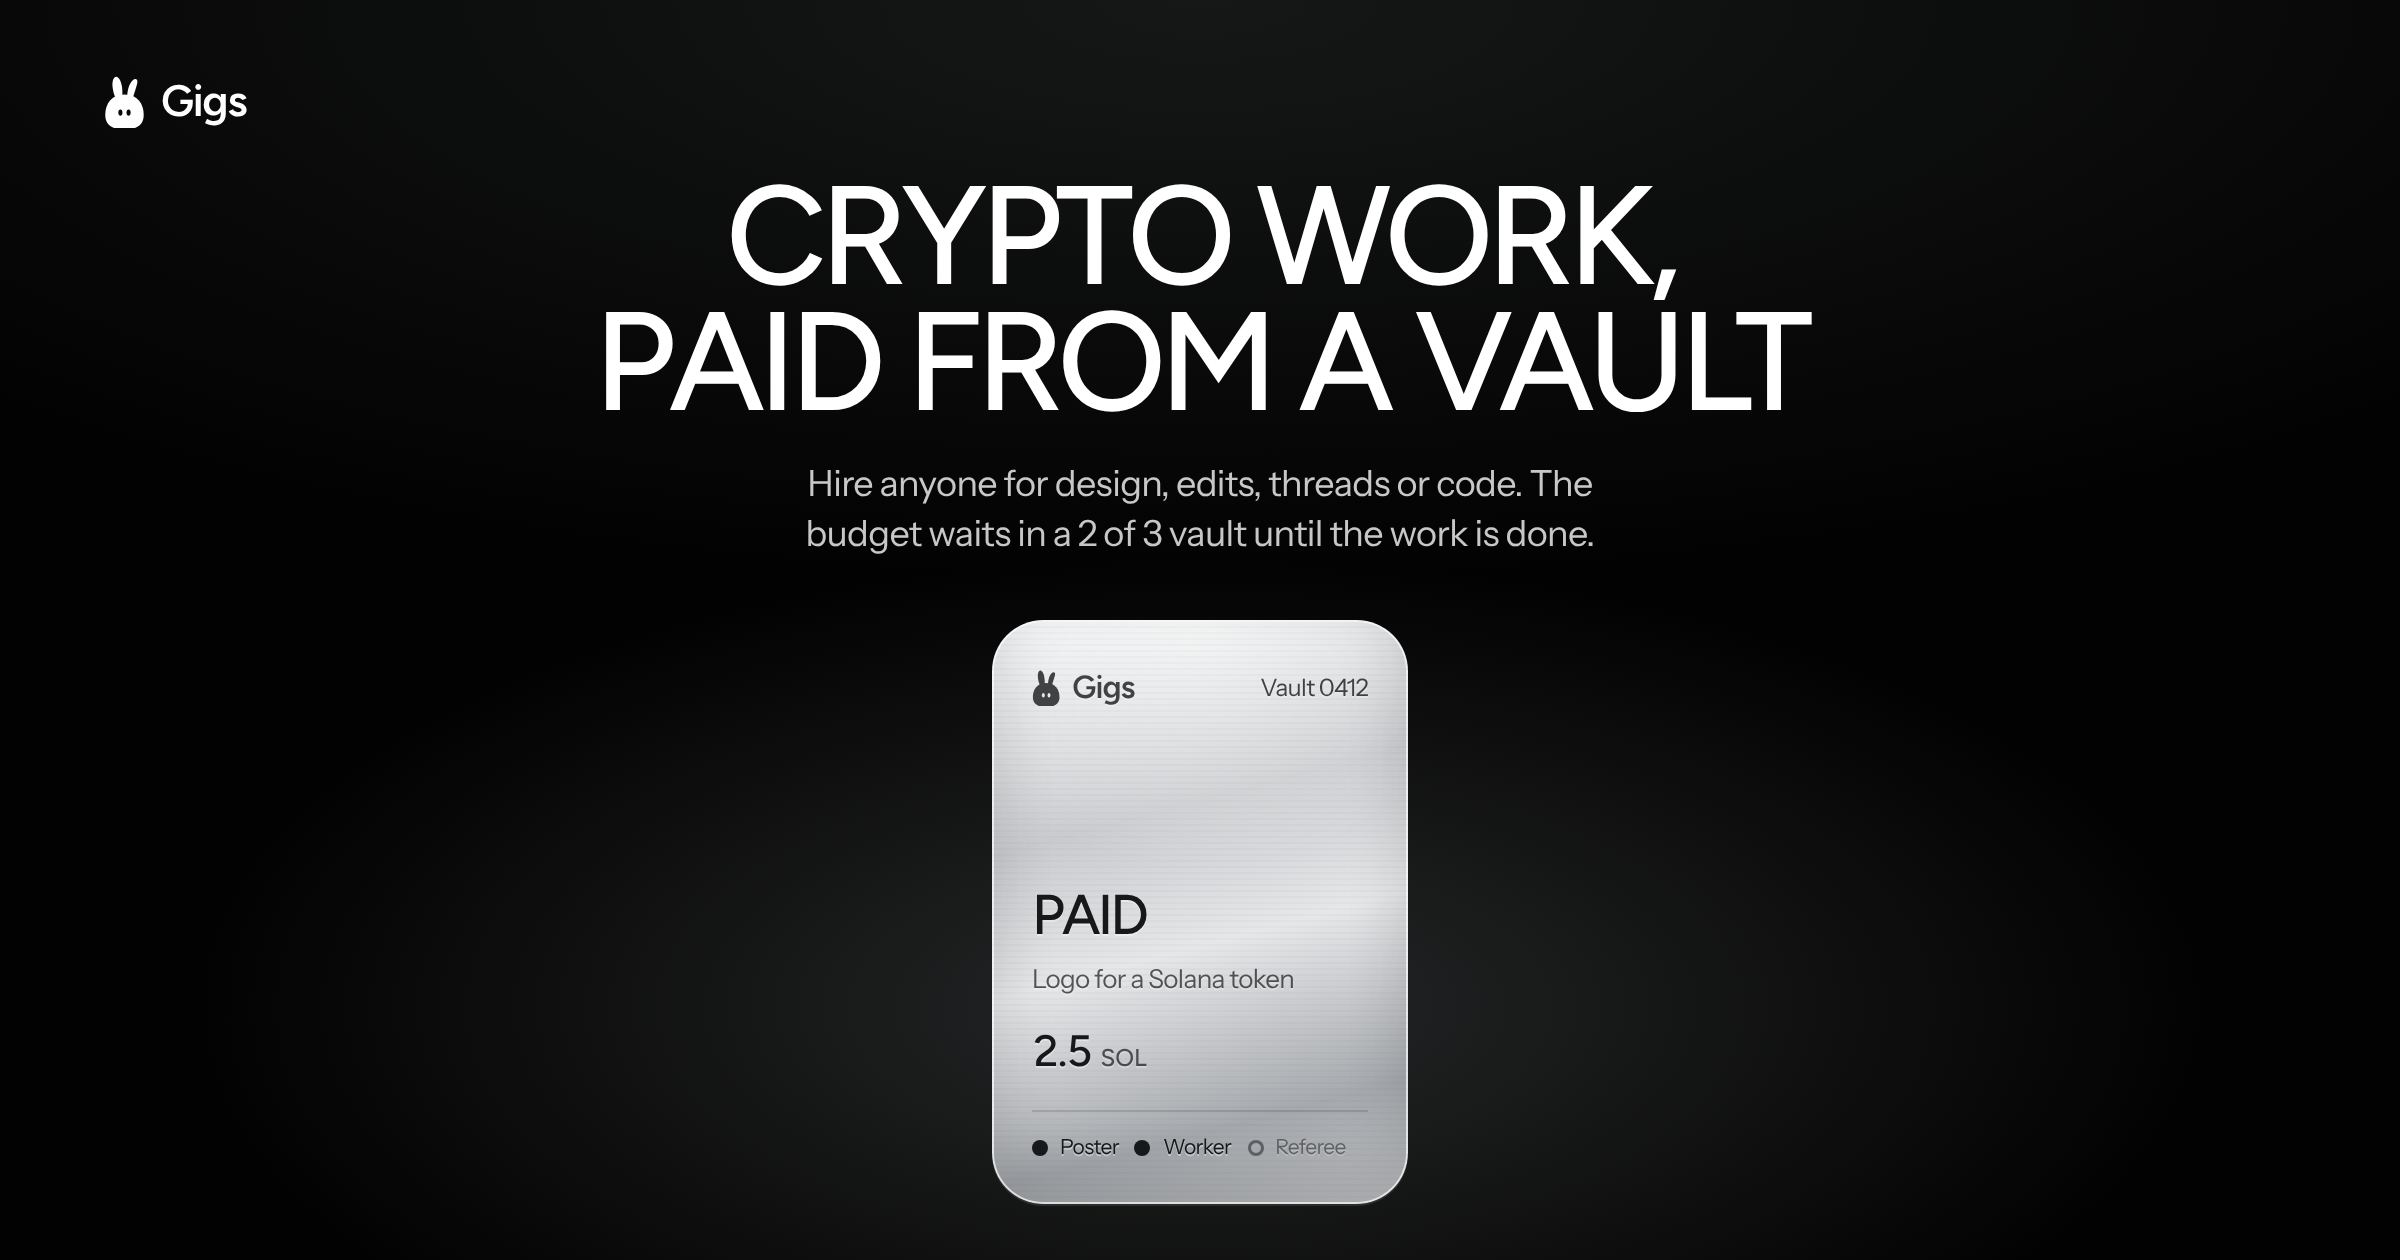
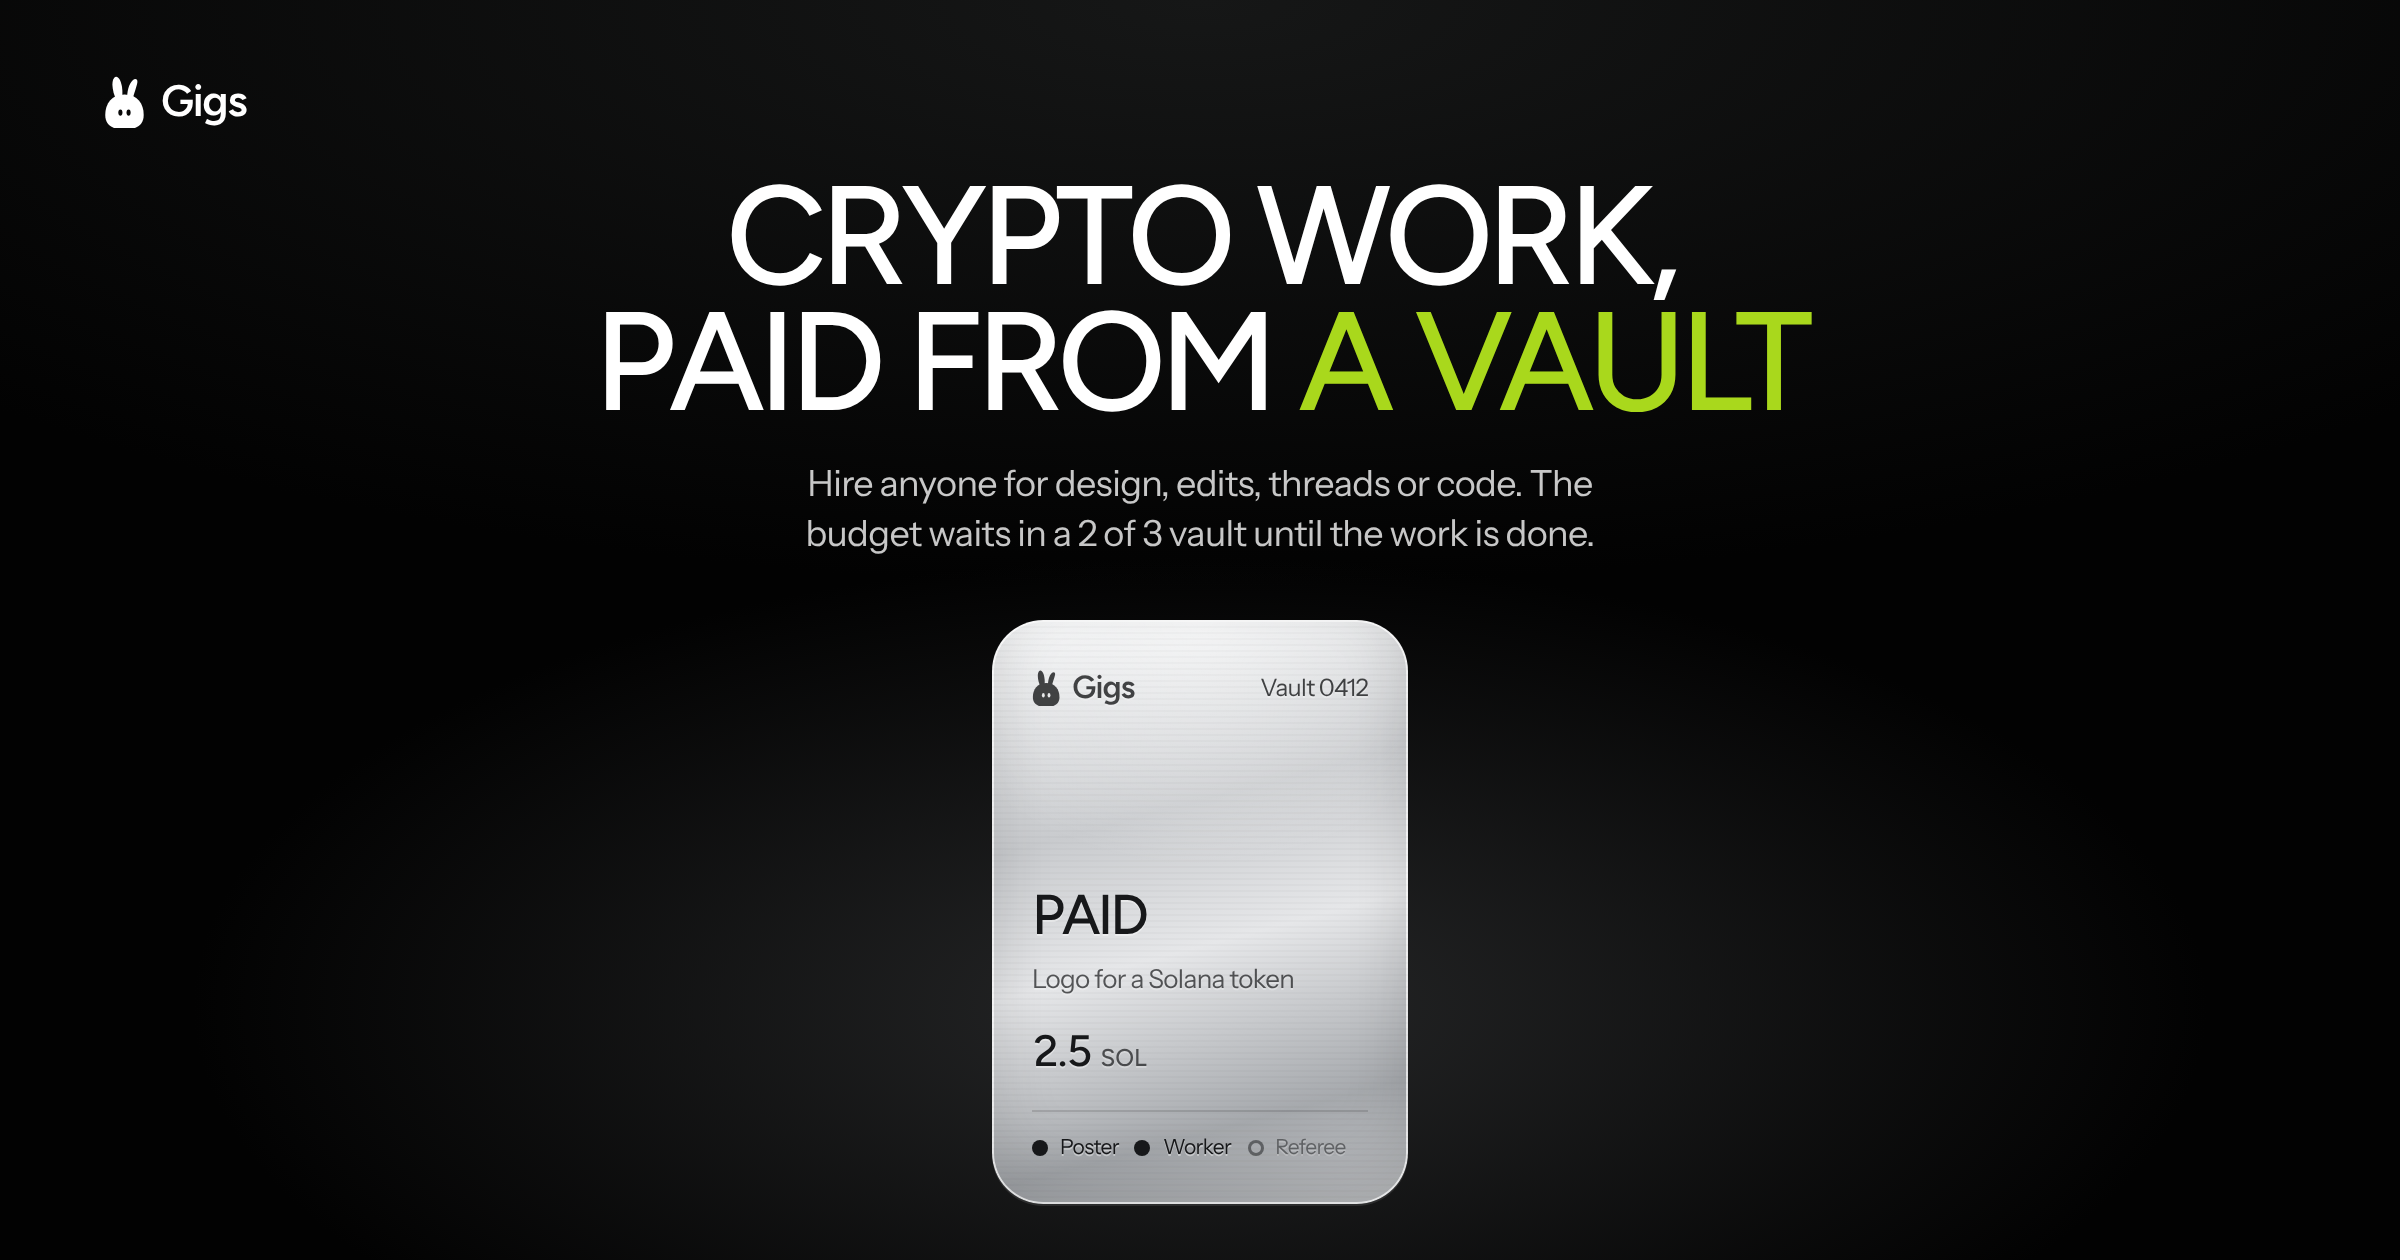
Lime accent
GIGS lime on the primary buttons, the 'a vault' highlight in the hero, the active step, step numbers, the keyhole, bolt and payment dot, your own chat bubbles and the live dots. Share image refreshed to match.

Claude-Session: https://claude.ai/code/session_01DiUFHqDLsNb4TyYarEwnuw

Changed region(s): [[0.5312, 0.2476, 0.75, 0.3405]]

diff --git a/src/app/globals.css b/src/app/globals.css
@@ -935,3 +935,20 @@ body:has(.home) .site-header.is-solid { padding-top: 12px; }
 .gig-threads a:hover { box-shadow: inset 0 0 0 1px var(--hair-2); }
 .gig-threads a.unread .thread-name, .gig-threads a.unread .thread-last { color: var(--ink); font-weight: 600; }
 @media (max-width: 760px) { .header-end .inbox-btn { display: grid; } }
+
+/* ---------- accent: GIGS lime, kept to the one action and a few moments that mean money or progress ---------- */
+:root { --accent: #A9D81C; --accent-hi: #BCE83A; --on-accent: #0B0D02; }
+.btn-ink, .vh2-btn-main, .end .btn-go, .vx-cta-label, .vx-cta-arrow { background: var(--accent); color: var(--on-accent); }
+.btn-ink:hover:not(:disabled), .vh2-btn-main:hover, .end .btn-go:hover { background: var(--accent-hi); }
+.vh2-hl { font-style: normal; color: var(--accent); }
+.vh2-steps button.is-on { background: var(--accent); color: var(--on-accent); }
+.steps3 .n { background: var(--accent); color: var(--on-accent); }
+.vf-well { color: var(--accent); }
+.vf-badge-in { color: var(--accent); }
+.vf-node { background: var(--accent); box-shadow: 0 0 12px rgba(169, 216, 28, .6); }
+.vf-line { background: linear-gradient(90deg, rgba(169, 216, 28, .5), rgba(255, 255, 255, .12) 50%, rgba(169, 216, 28, .5)); }
+.toggle button[aria-pressed='true'], .tabs button[aria-pressed='true'] { background: var(--accent); color: var(--on-accent); }
+.msg.mine .msg-body { background: var(--accent); color: var(--on-accent); }
+.live-dot, .live-dot::after, .wallet-dot { background: var(--accent); }
+:focus-visible { outline-color: var(--accent); }
+.inline-link:hover, .docs-body a:hover { text-decoration-color: var(--accent); }

diff --git a/src/components/VaultHero.tsx b/src/components/VaultHero.tsx
@@ -67,7 +67,7 @@ export default function VaultHero() {
       <div className="vh2-copy">
         <h1 className="vh2-title">
           <span>Crypto work,</span>
-          <span>paid from a vault</span>
+          <span>paid from <em className="vh2-hl">a vault</em></span>
         </h1>
         <p className="vh2-lede">Hire anyone for design, edits, threads or code. The budget waits in a 2 of 3 vault until the work is done.</p>
         <div className="vh2-actions">
